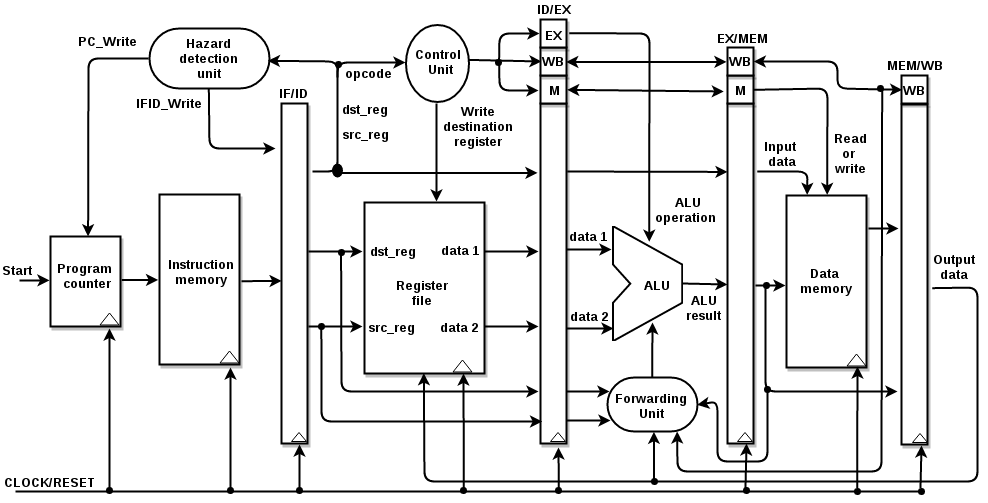
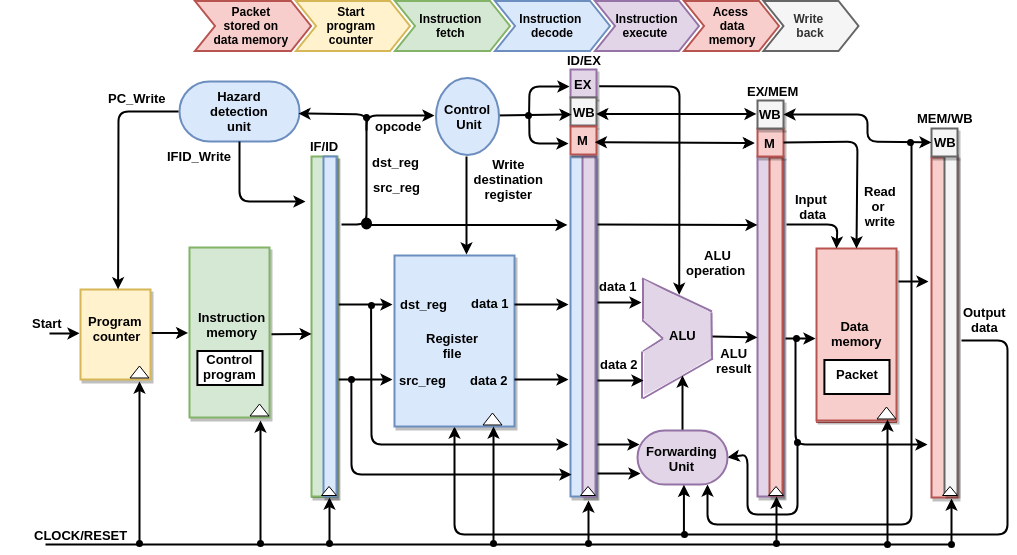
Updates from Overleaf

diff --git a/05implementation.tex b/05implementation.tex
@@ -120,6 +120,15 @@ As a design decision, we have put the instruction memory outside of the eBPF pro
 
 \subsection{Maps}
 
+\begin{figure}[ht]
+\centering
+\includegraphics[width=1.\linewidth]{figures/coprocessor.png}
+\caption{Coprocessor and Maps table.}
+\label{fig:coproc}
+\end{figure}
+
+\ref{fig:coproc}
+
 eBPF Linux kernel implementation allows for maps. Maps are a generic data structure that store different types of data in the form of key-value pairs. 
 % Currently, the Linux Kernel allows for three different types of maps. Hash map applies a hash before inserting in the table. Array map accesses the table with an integer index. Program array map is used to store a program. eBPF programs can manipulate maps through specific kernel function calls, such as bpf\_map\_lookup\_elem().
 
